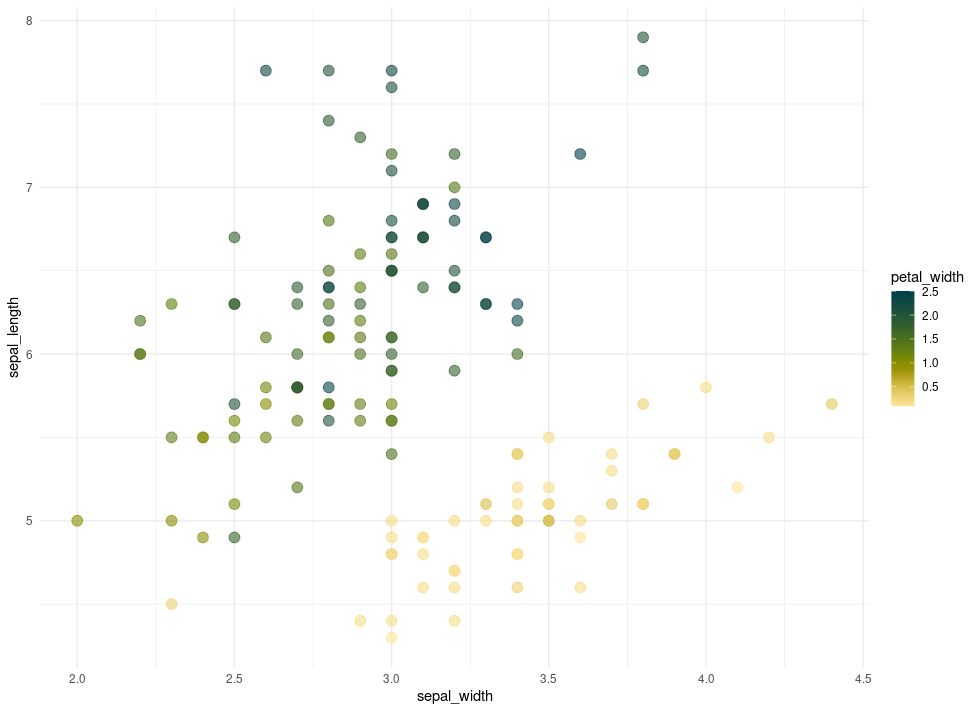
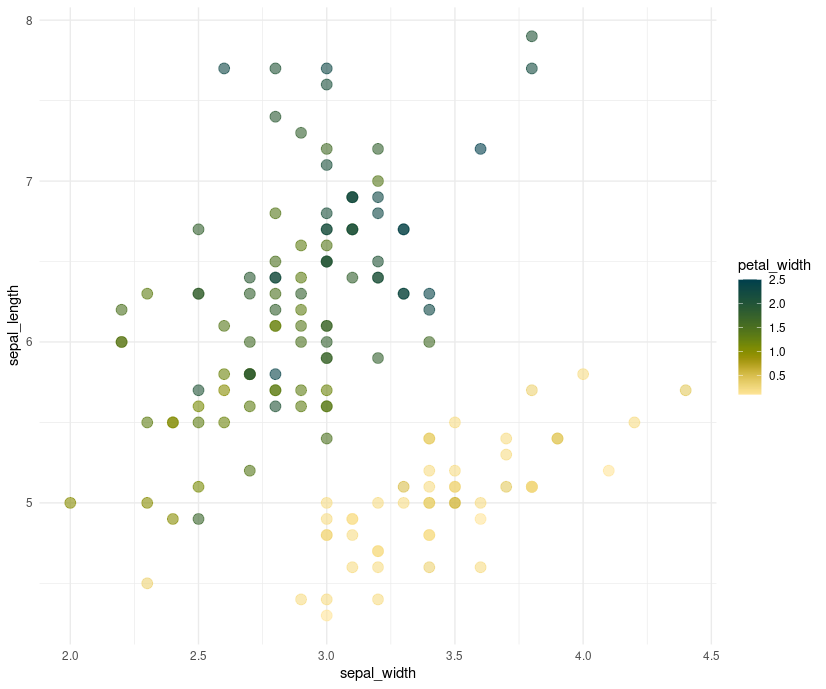
finish rescale image, problem igraphs too big

diff --git a/slides/chapter5_05.md b/slides/chapter5_05.md
@@ -44,7 +44,7 @@ g1
 
 ---
 
-<div style="text-align:center"><img src="sct1.png" alt=" " width="50%"></div>
+<div style="text-align:center"><img src="sct1.png" alt=" " width="40%"></div>
 
 
 ---
@@ -70,7 +70,7 @@ g2
 
 ---
 
-<div style="text-align:center"><img src="sct2.png" alt=" " width="50%"></div>
+<div style="text-align:center"><img src="sct2.png" alt=" " width="40%"></div>
 
 
 ---
@@ -90,7 +90,7 @@ g3
 
 ---
 
-<div style="text-align:center"><img src="sct3.png" alt=" " width="50%"></div>
+<div style="text-align:center"><img src="sct3.png" alt=" " width="40%"></div>
 
   
 ---
@@ -116,7 +116,7 @@ g4
 ---
   
 
-<div style="text-align:center"><img src="scatterimg.png" alt=" " width="55%"></div>
+<div style="text-align:center"><img src="scatterimg.png" alt=" " width="40%"></div>
 
   
   

diff --git a/slides/chapter5_08.md b/slides/chapter5_08.md
@@ -92,7 +92,7 @@ anim_save("tsla.gif", animation = tsla_price_anim)
 
 ---
 
-<div style="text-align:center"><img src="tsla.gif" alt=" " width="40%"></div>
+<div style="text-align:center"><img src="tsla.gif" alt=" " width="35%"></div>
 
 
 ---
@@ -200,7 +200,7 @@ anim_save("stocks.gif", animation = stocks_plot_anim)
 ---
 
 
-<div style="text-align:center"><img src="stocks.gif" alt=" " width="40%"></div>
+<div style="text-align:center"><img src="stocks.gif" alt=" " width="35%"></div>
 
 
 ---
@@ -264,7 +264,7 @@ stocks_plot_2
 (stocks_plot_anim2 = stocks_plot_2 + geom_point() + transition_reveal(index))
 ```
 
-<div style="text-align:center"><img src="stocks3.gif" alt=" " width="40%"></div>
+<div style="text-align:center"><img src="stocks3.gif" alt=" " width="35%"></div>
 
 
 

diff --git a/slides/chapter5_06.md b/slides/chapter5_06.md
@@ -57,7 +57,7 @@ ggplot(df_ch, aes(year, life_expectancy)) +
 
 ---
 
-<div style="text-align:center"><img src="line1.png" alt=" " width="40%"></div>
+<div style="text-align:center"><img src="line1.png" alt=" " width="35%"></div>
 
 ---
 
